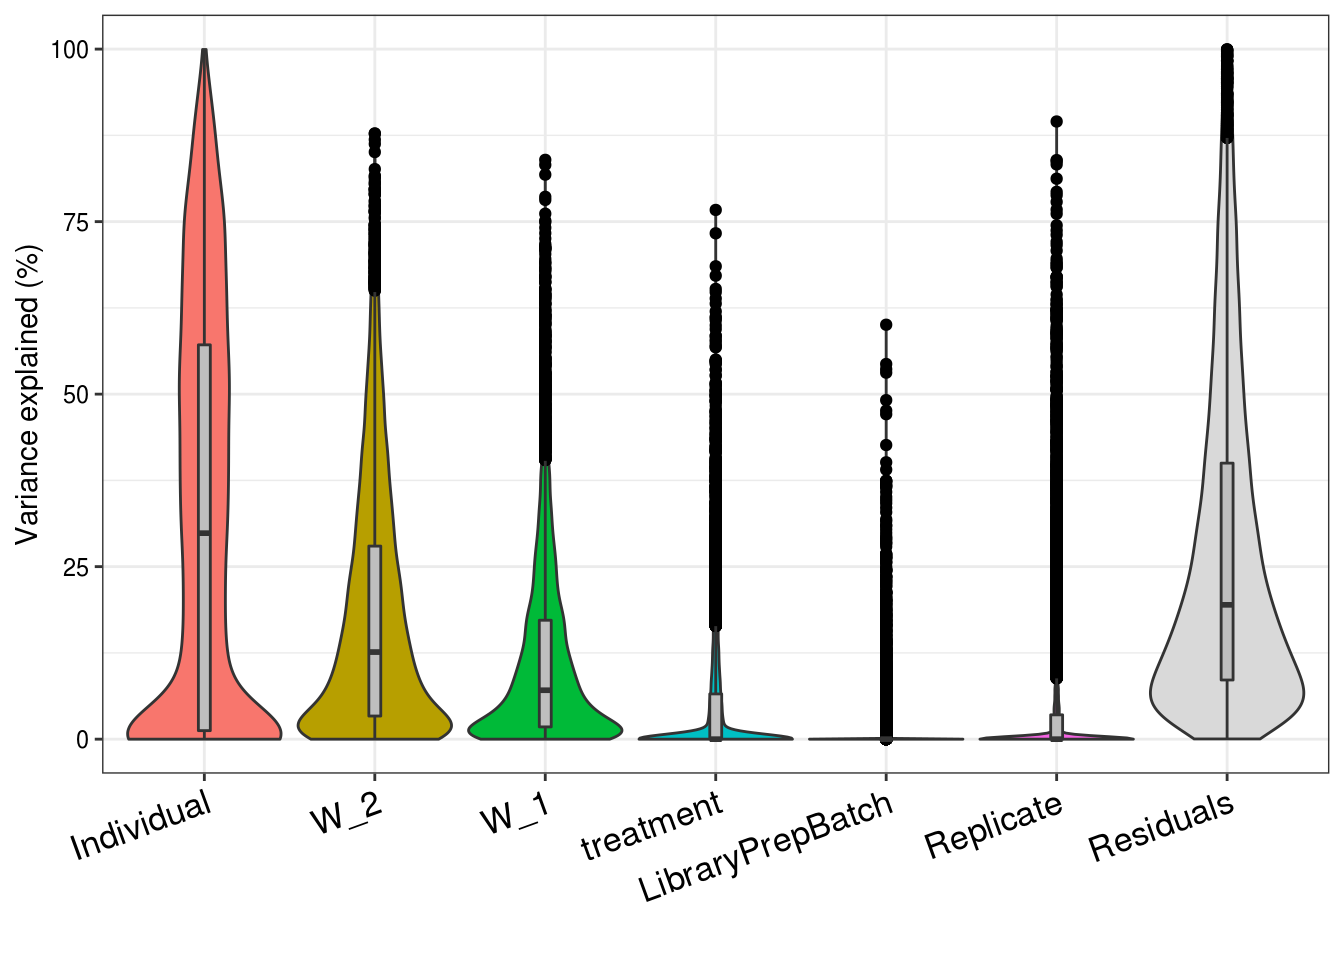
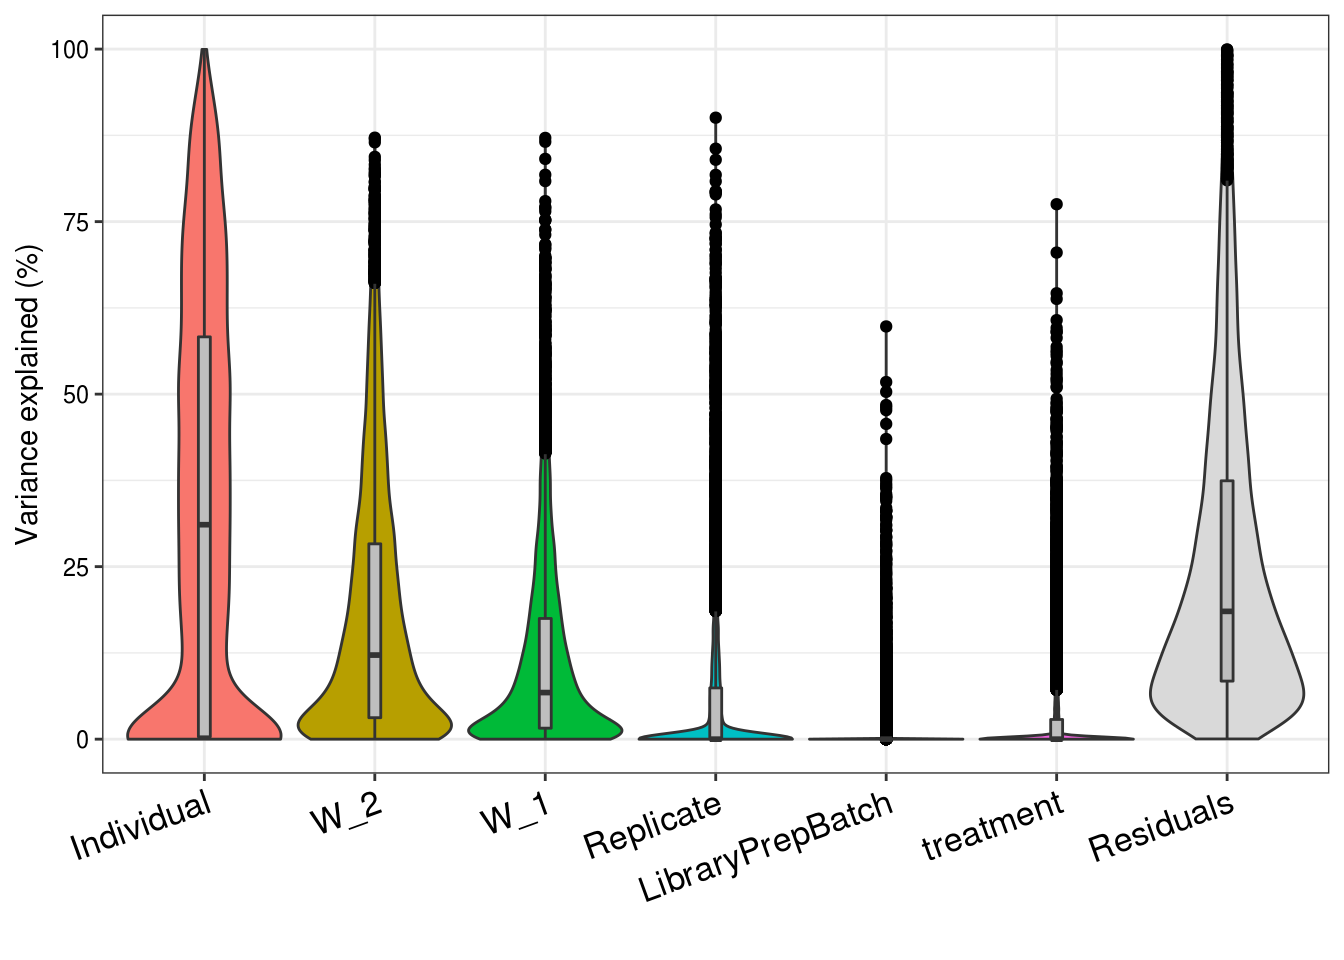
top 100 least variable genes

diff --git a/docs/partition_variance.html b/docs/partition_variance.html
@@ -817,7 +817,7 @@ sampleinfo &lt;- readRDS(&quot;data/Sample.info.RNAseq.reordered.csv&quot;)</cod
 <pre class="r"><code>#input data consists of raw filtered data (filtered for lowly expressed genes)
 #compute CV (stdev/mean) and rank from least to most; pick 100 least variable
 cv &lt;- apply(counts_upperquartile, 1, function(x) sd(x)/mean(x))
-least_var_genes &lt;- names(head(sort(cv), 100))</code></pre>
+least_var_genes &lt;- names(head(sort(cv), 200))</code></pre>
 <pre class="r"><code>#The RUVSeq vignette loads raw counts and uses the RUVSeq package to filter and normalize data (upper quantile normalization) before performing RUVg. 
 
 #Use RUVg
@@ -913,6 +913,17 @@ Date
 <tbody>
 <tr>
 <td>
+<a href="https://github.com/anthonyhung/OAStrain/blob/022f905186e6ab8f784b7266671f2729d9200c6c/docs/figure/partition_variance.Rmd/function-1.png" target="_blank">022f905</a>
+</td>
+<td>
+Anthony Hung
+</td>
+<td>
+2020-05-21
+</td>
+</tr>
+<tr>
+<td>
 <a href="https://github.com/anthonyhung/OAStrain/blob/51cceef198e21d0b03dbcb95ee86fd6a6d88b406/docs/figure/partition_variance.Rmd/function-1.png" target="_blank">51cceef</a>
 </td>
 <td>
@@ -953,6 +964,17 @@ Date
 <tbody>
 <tr>
 <td>
+<a href="https://github.com/anthonyhung/OAStrain/blob/022f905186e6ab8f784b7266671f2729d9200c6c/docs/figure/partition_variance.Rmd/function-2.png" target="_blank">022f905</a>
+</td>
+<td>
+Anthony Hung
+</td>
+<td>
+2020-05-21
+</td>
+</tr>
+<tr>
+<td>
 <a href="https://github.com/anthonyhung/OAStrain/blob/51cceef198e21d0b03dbcb95ee86fd6a6d88b406/docs/figure/partition_variance.Rmd/function-2.png" target="_blank">51cceef</a>
 </td>
 <td>
@@ -970,7 +992,7 @@ Anthony Hung
 varPart &lt;- fitExtractVarPartModel( filtered_RLE, form_no_interaction, sample_info )</code></pre>
 <pre><code>Dividing work into 100 chunks...
 
-Total: 29 s</code></pre>
+Total: 30 s</code></pre>
 <pre class="r"><code>vp &lt;- sortCols(varPart)
 plotVarPart( vp )</code></pre>
 <p><img src="figure/partition_variance.Rmd/function-3.png" width="672" style="display: block; margin: auto;" /></p>
@@ -998,6 +1020,17 @@ Date
 <tbody>
 <tr>
 <td>
+<a href="https://github.com/anthonyhung/OAStrain/blob/022f905186e6ab8f784b7266671f2729d9200c6c/docs/figure/partition_variance.Rmd/function-3.png" target="_blank">022f905</a>
+</td>
+<td>
+Anthony Hung
+</td>
+<td>
+2020-05-21
+</td>
+</tr>
+<tr>
+<td>
 <a href="https://github.com/anthonyhung/OAStrain/blob/51cceef198e21d0b03dbcb95ee86fd6a6d88b406/docs/figure/partition_variance.Rmd/function-3.png" target="_blank">51cceef</a>
 </td>
 <td>
@@ -1015,7 +1048,7 @@ Anthony Hung
 varPart &lt;- fitExtractVarPartModel( filtered_RLE, form_W2, sample_info_W2 )</code></pre>
 <pre><code>Dividing work into 100 chunks...
 
-Total: 29 s</code></pre>
+Total: 34 s</code></pre>
 <pre class="r"><code>vp &lt;- sortCols(varPart)
 plotVarPart( vp )</code></pre>
 <p><img src="figure/partition_variance.Rmd/function-4.png" width="672" style="display: block; margin: auto;" /></p>
@@ -1043,6 +1076,17 @@ Date
 <tbody>
 <tr>
 <td>
+<a href="https://github.com/anthonyhung/OAStrain/blob/022f905186e6ab8f784b7266671f2729d9200c6c/docs/figure/partition_variance.Rmd/function-4.png" target="_blank">022f905</a>
+</td>
+<td>
+Anthony Hung
+</td>
+<td>
+2020-05-21
+</td>
+</tr>
+<tr>
+<td>
 <a href="https://github.com/anthonyhung/OAStrain/blob/51cceef198e21d0b03dbcb95ee86fd6a6d88b406/docs/figure/partition_variance.Rmd/function-4.png" target="_blank">51cceef</a>
 </td>
 <td>
@@ -1060,7 +1104,7 @@ Anthony Hung
 varPart &lt;- fitExtractVarPartModel( filtered_RLE, form_no_interaction_W2, sample_info_W2 )</code></pre>
 <pre><code>Dividing work into 100 chunks...
 
-Total: 29 s</code></pre>
+Total: 31 s</code></pre>
 <pre class="r"><code>vp &lt;- sortCols(varPart)
 plotVarPart( vp )</code></pre>
 <p><img src="figure/partition_variance.Rmd/function-5.png" width="672" style="display: block; margin: auto;" /></p>
@@ -1086,6 +1130,17 @@ Date
 </tr>
 </thead>
 <tbody>
+<tr>
+<td>
+<a href="https://github.com/anthonyhung/OAStrain/blob/022f905186e6ab8f784b7266671f2729d9200c6c/docs/figure/partition_variance.Rmd/function-5.png" target="_blank">022f905</a>
+</td>
+<td>
+Anthony Hung
+</td>
+<td>
+2020-05-21
+</td>
+</tr>
 <tr>
 <td>
 <a href="https://github.com/anthonyhung/OAStrain/blob/51cceef198e21d0b03dbcb95ee86fd6a6d88b406/docs/figure/partition_variance.Rmd/function-5.png" target="_blank">51cceef</a>
@@ -1136,6 +1191,17 @@ Date
 <tbody>
 <tr>
 <td>
+<a href="https://github.com/anthonyhung/OAStrain/blob/022f905186e6ab8f784b7266671f2729d9200c6c/docs/figure/partition_variance.Rmd/unnamed-chunk-1-1.png" target="_blank">022f905</a>
+</td>
+<td>
+Anthony Hung
+</td>
+<td>
+2020-05-21
+</td>
+</tr>
+<tr>
+<td>
 <a href="https://github.com/anthonyhung/OAStrain/blob/51cceef198e21d0b03dbcb95ee86fd6a6d88b406/docs/figure/partition_variance.Rmd/unnamed-chunk-1-1.png" target="_blank">51cceef</a>
 </td>
 <td>
@@ -1153,31 +1219,31 @@ Anthony Hung
 
 treatment_symbols &lt;- gene_anno$external_gene_name[match(treatment_genes, gene_anno$ensembl_gene_id)]
 head(treatment_symbols)</code></pre>
-<pre><code>[1] EOGT     RBM3     HSP90AA1 TGS1     UNKL     ZNF185  
+<pre><code>[1] EOGT    RBM3    GLE1    TEP1    E2F7    GADD45B
 56858 Levels: A1BG A1BG-AS1 A1CF A2M A2M-AS1 A2ML1 A2ML1-AS1 ... ZZEF1</code></pre>
 <pre class="r"><code>treatment_anno &lt;- gene_anno[match(treatment_genes, gene_anno$ensembl_gene_id),]
 head(treatment_anno)</code></pre>
 <pre><code>      ensembl_gene_id external_gene_name chromosome_name
 10988 ENSG00000163378               EOGT               3
 2662  ENSG00000102317               RBM3               X
-1510  ENSG00000080824           HSP90AA1              14
-7495  ENSG00000137574               TGS1               8
-797   ENSG00000059145               UNKL              16
-8961  ENSG00000147394             ZNF185               X
+4893  ENSG00000119392               GLE1               9
+6158  ENSG00000129566               TEP1              14
+11706 ENSG00000165891               E2F7              12
+2125  ENSG00000099860            GADD45B              19
                                                                                            description
 10988 EGF domain specific O-linked N-acetylglucosamine transferase [Source:HGNC Symbol;Acc:HGNC:28526]
 2662                                    RNA binding motif protein 3 [Source:HGNC Symbol;Acc:HGNC:9900]
-1510            heat shock protein 90 alpha family class A member 1 [Source:HGNC Symbol;Acc:HGNC:5253]
-7495                                 trimethylguanosine synthase 1 [Source:HGNC Symbol;Acc:HGNC:17843]
-797                                unkempt family like zinc finger [Source:HGNC Symbol;Acc:HGNC:14184]
-8961                       zinc finger protein 185 with LIM domain [Source:HGNC Symbol;Acc:HGNC:12976]
-                                                                phenotype
-10988 Adams Oliver syndrome;Adams-Oliver syndrome;ADAMS-OLIVER SYNDROME 4
-2662                                                                     
-1510                                                                     
-7495                                                                     
-797                                                                      
-8961                                                                     </code></pre>
+4893                                      GLE1, RNA export mediator [Source:HGNC Symbol;Acc:HGNC:4315]
+6158                               telomerase associated protein 1 [Source:HGNC Symbol;Acc:HGNC:11726]
+11706                                   E2F transcription factor 7 [Source:HGNC Symbol;Acc:HGNC:23820]
+2125                    growth arrest and DNA damage inducible beta [Source:HGNC Symbol;Acc:HGNC:4096]
+                                                                                                                                                                                                                                                                                       phenotype
+10988                                                                                                                                                                                                                        Adams Oliver syndrome;Adams-Oliver syndrome;ADAMS-OLIVER SYNDROME 4
+2662                                                                                                                                                                                                                                                                                            
+4893  Arthrogryposis lethal with anterior horn cell disease;Amyotrophic lateral sclerosis;Lethal arthrogryposis-anterior horn cell disease syndrome;Lethal congenital contracture syndrome type 1;LETHAL ARTHROGRYPOSIS WITH ANTERIOR HORN CELL DISEASE;LETHAL CONGENITAL CONTRACTURE SYNDROME 1
+6158                                                                                                                                                                                                                                                                                            
+11706                                                                                                                                                                                                                                                                                           
+2125                                                                                                                                                                                                                                                                                            </code></pre>
 <br>
 <p>
 <button type="button" class="btn btn-default btn-workflowr btn-workflowr-sessioninfo" data-toggle="collapse" data-target="#workflowr-sessioninfo" style="display: block;">
